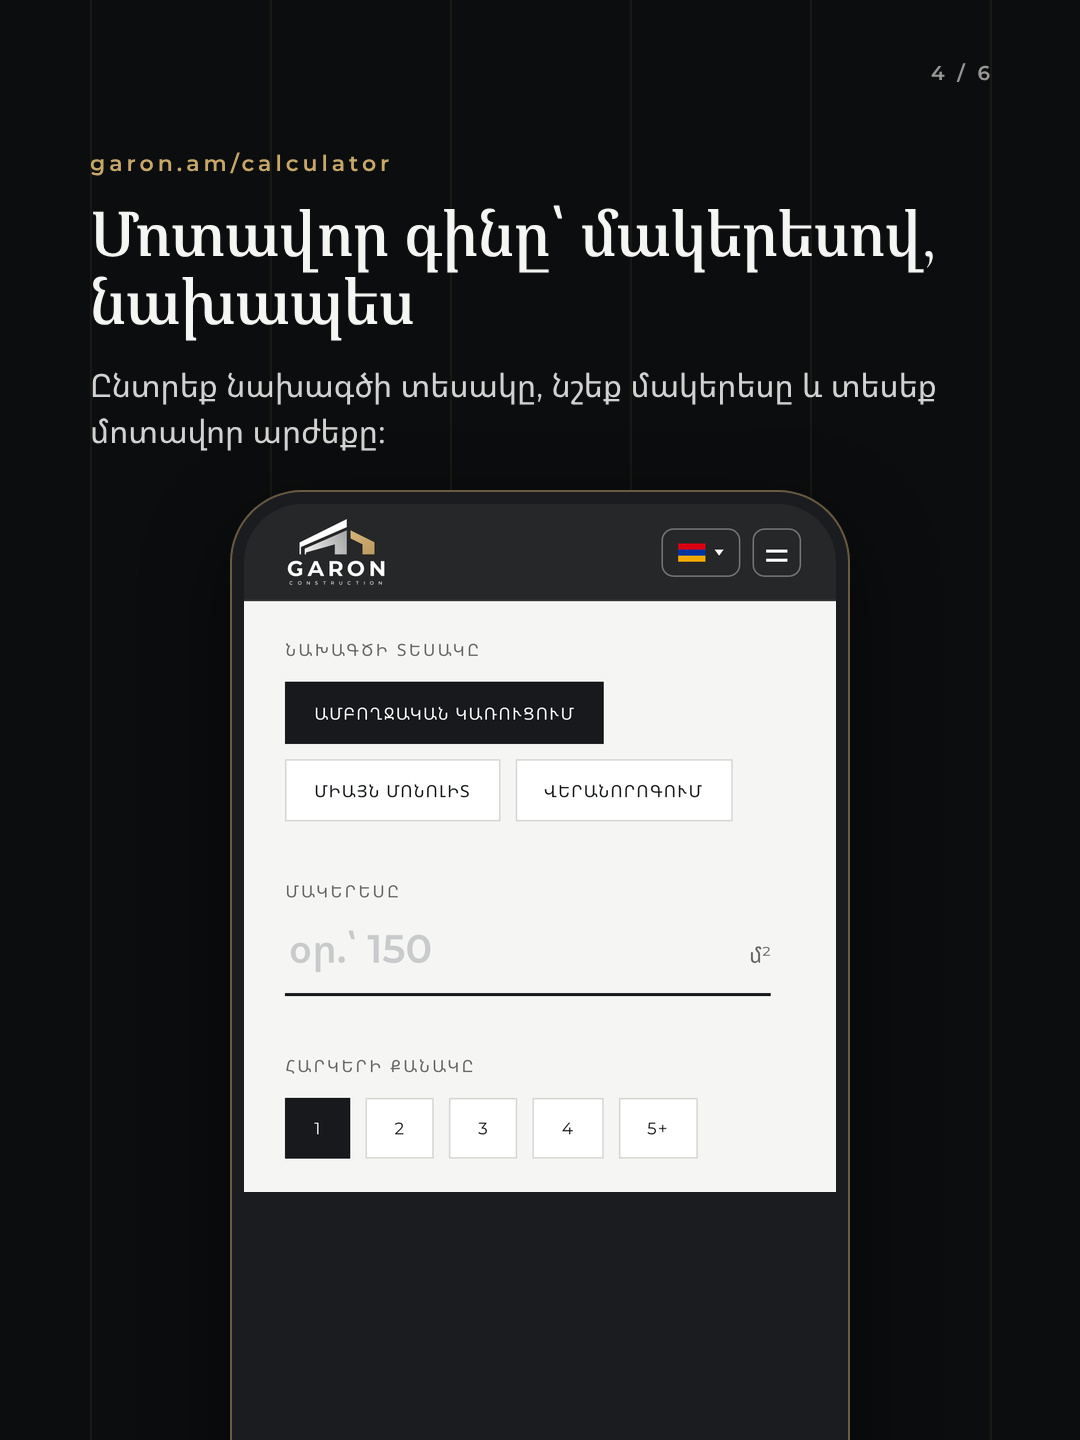
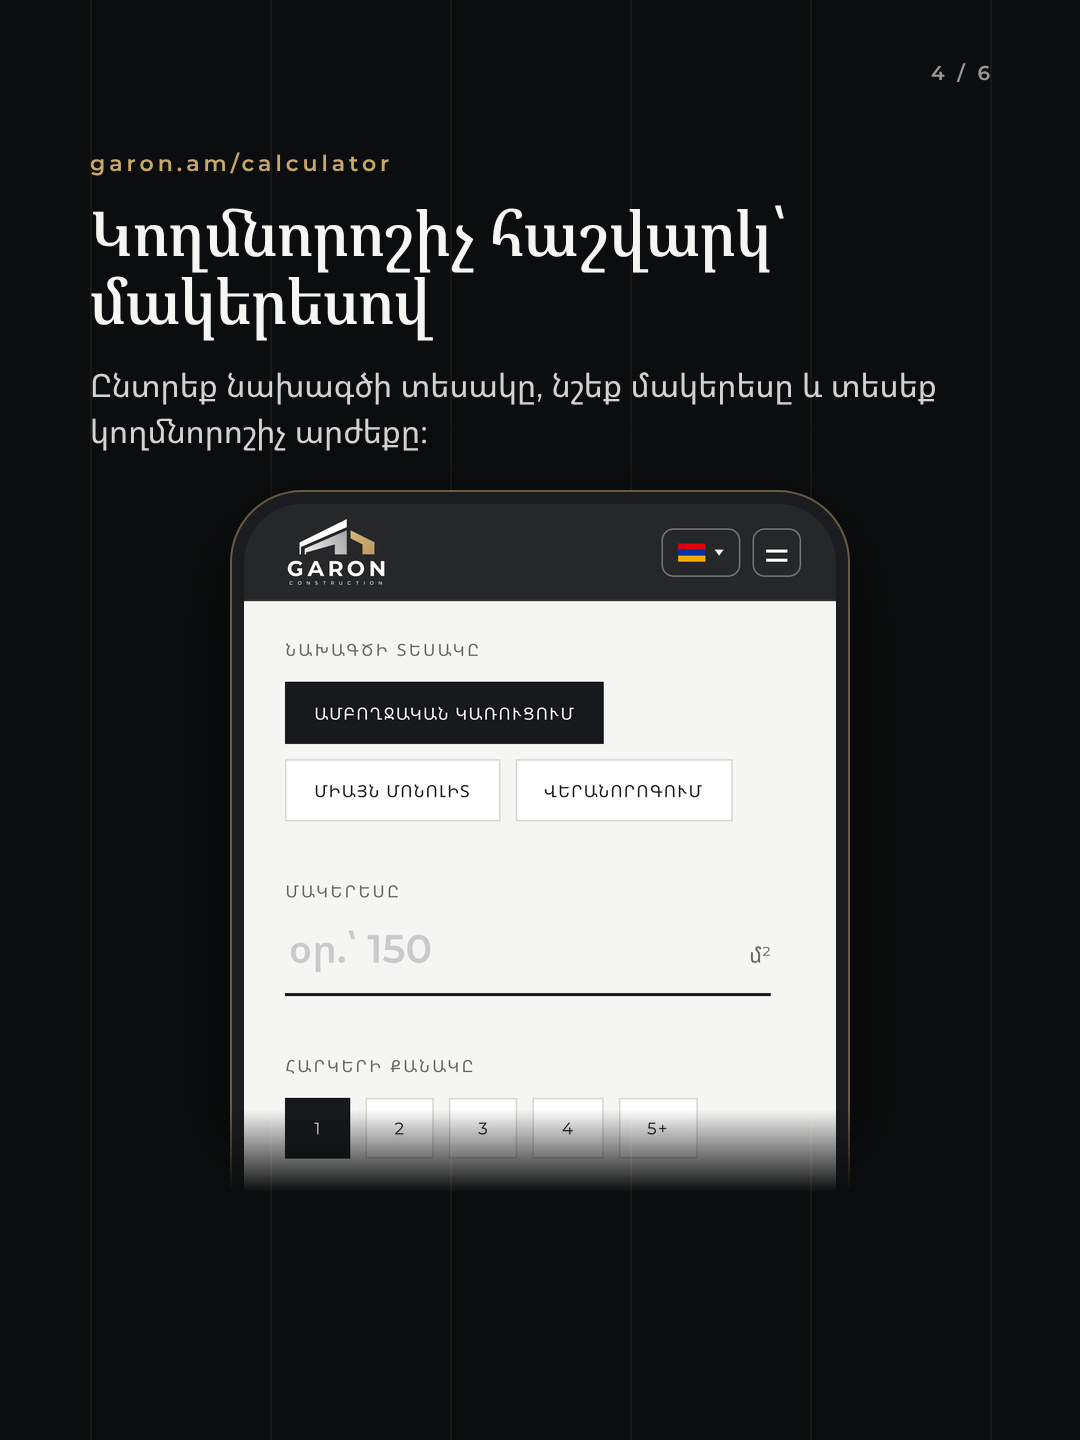
Instagram launch: work in progress (L04 fix, L02 v3)
Claude-Session: https://claude.ai/code/session_012ETB85fkqePMDV6srsSLi9

Changed region(s): [[0.2139, 0.75, 0.7944, 0.8438], [0.0917, 0.125, 0.8556, 0.25], [0.0917, 0.2812, 0.3972, 0.3125]]

diff --git a/marketing/instagram/tools/render_launch.js b/marketing/instagram/tools/render_launch.js
@@ -4,6 +4,8 @@
 // usage: node render_launch.js <repo_root> <batch_dir> [ITEM ...]     ITEM = L01 | L02 | L03 | L04
 // env:   IG_ALLOW_PARTIAL=1 — a failed L04 site check blocks only that slide (default: STOP the run)
 //        IG_SITE_URL (default http://localhost:3123) — the LOCAL production build (render_batch.sh starts it)
+//        IG_SLIDES=4[,5] — L04: render only these slide numbers (and capture only their screenshots);
+//                          the report then goes to launch_report_L04_<n..>.json (full-run report kept)
 // Writes <batch>/05-output/<ITEM>/..., L02 frames + layers + timeline.json in <batch>/.tools/work/L02/
 // (compose with compose_reel.py), and <batch>/.tools/work/launch_report.json (fit/box/site checks).
 // Any failed check (autofit, forbidden asset, forbidden text, price in crop) throws = STOP.
@@ -24,6 +26,9 @@ const SITE = process.env.IG_SITE_URL || 'http://localhost:3123';
 const S = spec.styles;
 const IT = spec.items;
 const want = (id) => !only.length || only.includes(id);
+const SLIDES = (process.env.IG_SLIDES || '').split(',').filter(Boolean).map(Number);
+const wantSlide = (n) => !SLIDES.length || SLIDES.includes(n);
+const REPORT = SLIDES.length ? `launch_report_L04_${SLIDES.map((n) => String(n).padStart(2, '0')).join('_')}.json` : 'launch_report.json';
 const report = { site: SITE, items: {}, checks: [] };
 const py = (script, ...args) => execFileSync('python3', [path.join(__dirname, script), ...args.map(String)]).toString().trim();
 const mk = (d) => { fs.mkdirSync(d, { recursive: true }); return d; };
@@ -164,7 +169,8 @@ async function captureShots(browser, dir) {
   const ctx = await browser.newContext({ ...dev, reducedMotion: 'reduce' });
   await ctx.addInitScript(() => localStorage.setItem('garon-lang', 'hy'));
   const res = {};
-  for (const shot of sc.shots) {
+  const needed = new Set(IT.L04.slides.filter((s) => s.phone && wantSlide(s.n)).map((s) => s.phone.screenshot));
+  for (const shot of sc.shots.filter((x) => needed.has(x.id))) {
     try { res[shot.id] = await captureShot(ctx, dev, shot, dir); } catch (e) {
       // IG_ALLOW_PARTIAL=1: a failed site check blocks only this shot's slide (reported), other slides still render
       if (process.env.IG_ALLOW_PARTIAL !== '1') throw e;
@@ -384,7 +390,16 @@ async function buildL04(r, shots) {
   const it = IT.L04; const [W, H] = it.size;
   const dir = mk(path.join(OUT, 'L04'));
   const pt = it.phone_template;
-  for (const sl of it.slides) {
+  const cs = (copy.L04 && copy.L04.slides) || [];
+  for (const sl0 of it.slides) {
+    if (!wantSlide(sl0.n)) continue;
+    // 03-copy.json is the text source of record: phone-slide feed_title / feed_body follow copy.L04.slides[n-1]
+    const sl = JSON.parse(JSON.stringify(sl0));
+    const c = cs[sl.n - 1];
+    if (sl.layout === 'phone' && c) for (const t of sl.text_stack.items) {
+      const v = t.style === 'feed_title' ? c.title : t.style === 'feed_body' ? c.body : null;
+      if (v && v !== t.text) { console.log(`  copy  L04_${sl.n} ${t.style}: «${t.text}» -> «${v}» (03-copy.json)`); t.text = v; }
+    }
     const p = [grid6(H)];
     if (sl.layout === 'phone') {
       const ph = sl.phone; const shot = shots[ph.screenshot];
@@ -392,8 +407,15 @@ async function buildL04(r, shots) {
       const scr = path.join(WORK, 'L04', `${ph.screenshot}_${ph.dest.w}x${ph.dest.h}.png`);
       py('fit_photo.py', shot.file, scr, ph.dest.w, ph.dest.h, ph.crop.x, ph.crop.y, ph.crop.w, ph.crop.h);
       const f = pt.frame;
+      // phone group (shadow + frame + gold border + screen + screenshot). phone.mask (linear y0 -> y1, slide px)
+      // fades the WHOLE group to transparent: opaque above y0, fully transparent from y1 down.
+      const mk = ph.mask;
+      if (mk) check(mk.type === 'linear' && mk.y1 > mk.y0, `L04_${sl.n} phone.mask linear y0 ${mk.y0} -> y1 ${mk.y1}`);
+      const mcss = mk ? `-webkit-mask-image:linear-gradient(to bottom,#000 ${mk.y0}px,transparent ${mk.y1}px);mask-image:linear-gradient(to bottom,#000 ${mk.y0}px,transparent ${mk.y1}px);` : '';
+      p.push(`<div class="phoneGroup" style="position:absolute;left:0;top:0;width:${W}px;height:${H}px;${mcss}">`);
       p.push(`<div style="position:absolute;left:${f.x}px;top:${ph.frame_top}px;width:${f.w}px;height:${H - ph.frame_top + 200}px;box-sizing:border-box;background:${f.fill};border:${f.border};border-radius:${f.radius_outer}px;box-shadow:${f.shadow}"></div>`);
       p.push(`<div style="position:absolute;left:${ph.dest.x}px;top:${ph.dest.y}px;width:${ph.dest.w}px;height:${ph.dest.h}px;overflow:hidden;border-radius:${pt.frame.radius_screen}px ${pt.frame.radius_screen}px 0 0"><img src="file://${scr}" style="display:block;width:${ph.dest.w}px;height:${ph.dest.h}px"></div>`);
+      p.push('</div>');
       p.push(stackEl(sl.text_stack, W, H));
     } else {
       p.push(L.ruleEl(sl.horizon));
@@ -406,8 +428,18 @@ async function buildL04(r, shots) {
     for (const b of Object.values(bx)) check(b.x0 >= 90 && b.x1 <= 996 && b.y0 >= 60, `L04_${sl.n} «${b.text.slice(0, 30)}» in safe area (${b.x0},${b.y0})-(${b.x1},${b.y1})`);
     if (sl.layout === 'phone') {
       const bottom = Math.max(...Object.values(bx).filter((b) => b.id.startsWith('stack')).map((b) => b.y1));
-      const limit = sl.n === 4 ? 690 : sl.phone.frame_top - 30;
+      const limit = sl.phone.mask ? sl.phone.frame_top - 24 : sl.phone.frame_top - 30;
       check(bottom <= limit, `L04_${sl.n} text block ends at ${bottom} <= ${limit}`);
+      if (sl.phone.mask) {
+        // pixel check: below y1 the slide must equal the background-only render (grid6 + page number);
+        // between y0 and y1 the phone must fade without a hard edge.
+        const ref = png.replace(/\.png$/, '_bgref.png').replace(dir, path.join(WORK, 'L04'));
+        await r.render(L.page(W, H, [grid6(H), pageEl(sl.page, W, H)].join('\n'), sl.background), W, H, ref, false);
+        const m = JSON.parse(py('mask_check.py', png, ref, sl.phone.mask.y0, sl.phone.mask.y1));
+        report.items[`L04_${sl.n}_mask`] = m;
+        check(m.below_max <= 2, `L04_${sl.n} mask: rows y >= ${sl.phone.mask.y1} == background-only render (max abs diff ${m.below_max}, mean ${m.below_mean})`);
+        check(m.max_row_step <= 40, `L04_${sl.n} mask: no hard edge in y ${sl.phone.mask.y0 - 20}..${sl.phone.mask.y1 + 5} (max row-to-row step of phone-column mean ${m.max_row_step}, profile ${JSON.stringify(m.profile)})`);
+      }
     } else {
       check(bx.body1.y1 < 1079 && bx.abs2.y0 > 1081, `L04_${sl.n} url/body above horizon (${bx.body1.y1}), email below (${bx.abs2.y0})`);
     }
@@ -435,7 +467,7 @@ async function buildL04(r, shots) {
     if (want('L04')) await buildL04(r, shots);
   } finally {
     await r.close();
-    fs.writeFileSync(path.join(WORK, 'launch_report.json'), JSON.stringify(report, null, 1));
+    fs.writeFileSync(path.join(WORK, REPORT), JSON.stringify(report, null, 1));
   }
-  console.log('done; report:', path.join(WORK, 'launch_report.json'));
-})().catch((e) => { fs.writeFileSync(path.join(WORK, 'launch_report.json'), JSON.stringify({ ...report, error: String(e) }, null, 1)); console.error(e); process.exit(1); });
+  console.log('done; report:', path.join(WORK, REPORT));
+})().catch((e) => { fs.writeFileSync(path.join(WORK, REPORT), JSON.stringify({ ...report, error: String(e) }, null, 1)); console.error(e); process.exit(1); });

diff --git a/marketing/instagram/tools/mask_check.py b/marketing/instagram/tools/mask_check.py
@@ -1,0 +1,29 @@
+#!/usr/bin/env python3
+"""mask_check.py <slide.png> <bg_ref.png> <y0> <y1>  — verify a linear fade mask on a phone group.
+
+Prints JSON: below_max / below_mean = abs diff vs the background-only render for rows y >= y1 (should be ~0),
+max_row_step = largest row-to-row change of the mean |slide - bg| over the phone columns (x 230..850) in
+y0-20 .. y1+5 (a hard edge shows up as one big step), profile = that mean every 8 rows.
+"""
+import json
+import sys
+
+from PIL import Image, ImageChops
+
+a = Image.open(sys.argv[1]).convert("RGB")
+b = Image.open(sys.argv[2]).convert("RGB")
+y0, y1 = int(sys.argv[3]), int(sys.argv[4])
+W, H = a.size
+d = ImageChops.difference(a, b).convert("L")
+px = d.load()
+below = [px[x, y] for y in range(y1, H) for x in range(W)]
+rows = {}
+for y in range(max(0, y0 - 20), min(H, y1 + 6)):
+    rows[y] = sum(px[x, y] for x in range(230, 851)) / 621.0
+ys = sorted(rows)
+steps = [abs(rows[ys[i + 1]] - rows[ys[i]]) for i in range(len(ys) - 1)]
+print(json.dumps({
+    "below_max": max(below), "below_mean": round(sum(below) / len(below), 4),
+    "max_row_step": round(max(steps), 2),
+    "profile": {y: round(rows[y], 1) for y in ys[::8]},
+}))
